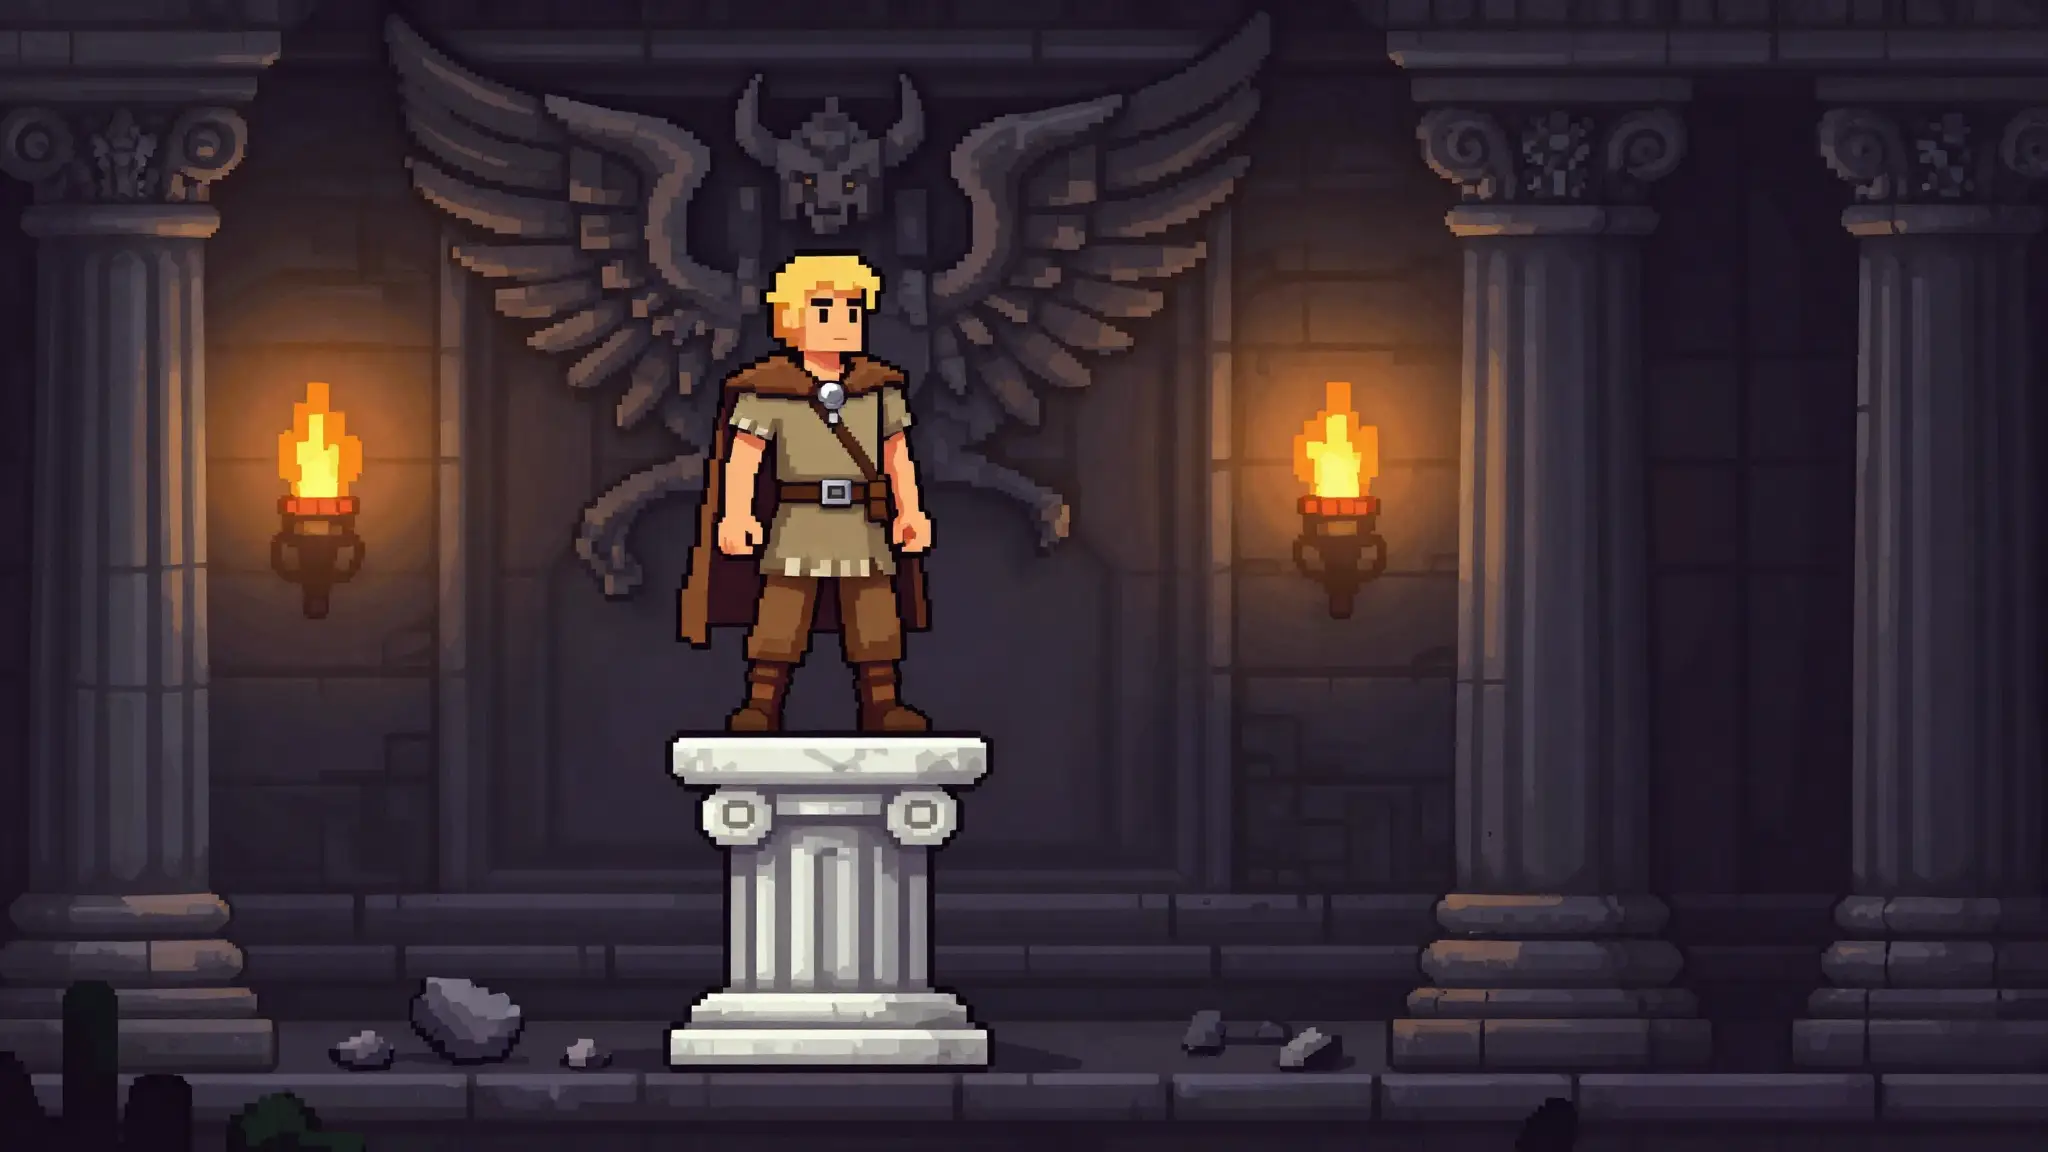
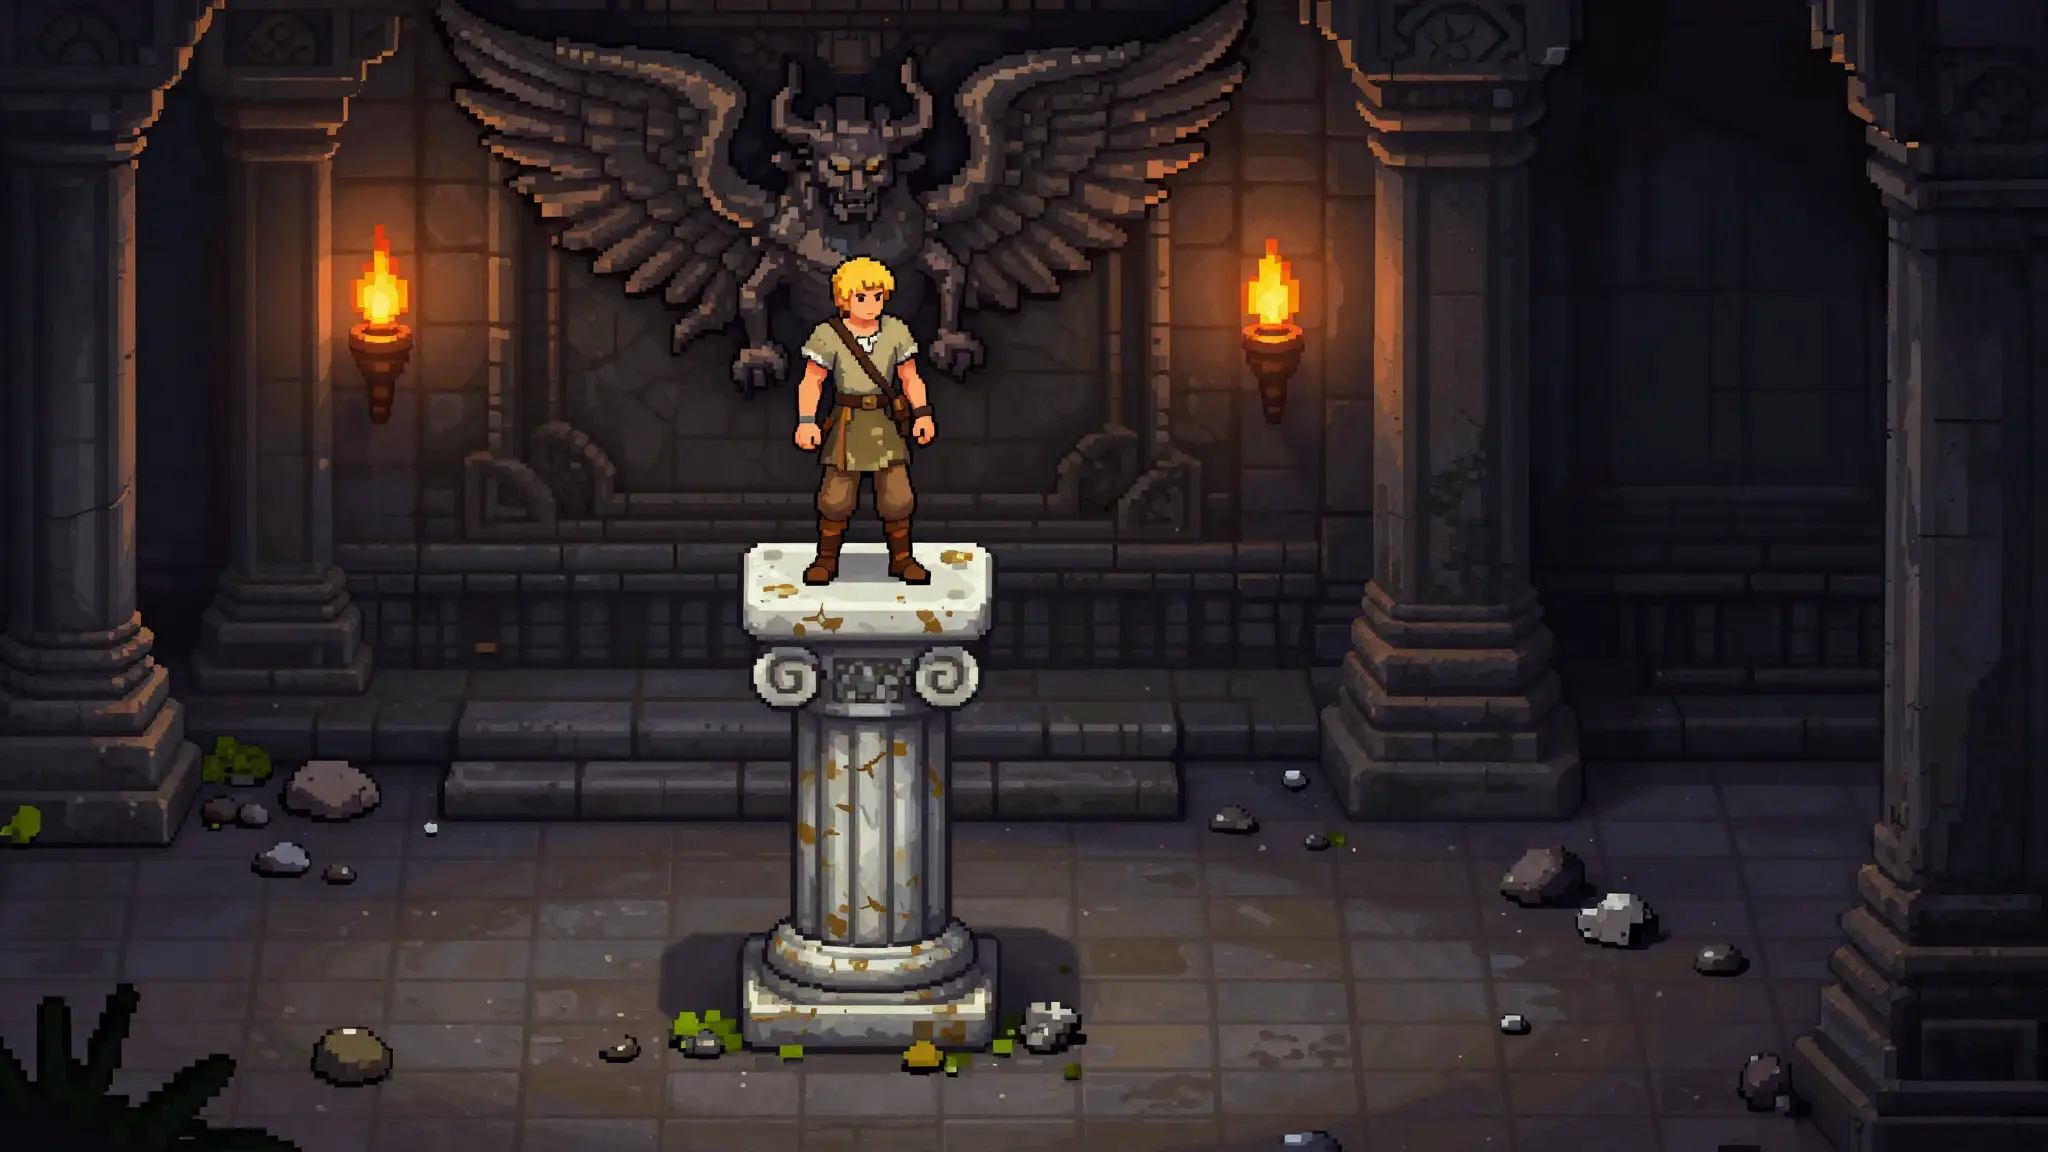
Refine scene: no cape, aged column, plain floor, more rubble, detail
- Regenerate scene per feedback: hero without cape, weathered (non-white)
  marble column, flat floor (no stepped ledge), more scattered pebbles,
  higher detail on objects
- Darken bottom corners to hide stray foliage; static img for now (will
  re-animate to video on confirm)

diff --git a/css/style.css b/css/style.css
@@ -491,6 +491,8 @@ html,body{height:100%;overflow:hidden}
    linear-gradient(90deg,rgba(6,4,3,.66) 0%,rgba(6,4,3,.2) 26%,transparent 48%),
    linear-gradient(180deg,rgba(6,4,3,.55) 0%,transparent 20%,transparent 72%,rgba(6,4,3,.6) 100%)}
 .dgn__vign{position:fixed;inset:0;z-index:2;pointer-events:none;background:
+   radial-gradient(44% 46% at 1% 100%, rgba(4,3,2,.9), transparent 60%),
+   radial-gradient(44% 46% at 99% 100%, rgba(4,3,2,.9), transparent 60%),
    radial-gradient(95% 85% at 50% 44%, transparent 60%, rgba(0,0,0,.5) 100%)}
 .dgn__firelight{position:fixed}
 .bg__dust{position:fixed;inset:0;z-index:3}

diff --git a/cmp-shot.js b/cmp-shot.js
@@ -1,0 +1,5 @@
+const puppeteer=require('puppeteer-core');const path=require('path');
+(async()=>{const b=await puppeteer.launch({executablePath:'/root/.cache/puppeteer/chrome/linux-131.0.6778.204/chrome-linux64/chrome',headless:'new',args:['--no-sandbox','--disable-setuid-sandbox']});
+const p=await b.newPage();await p.setViewport({width:1900,height:560,deviceScaleFactor:1});
+await p.goto('file://'+path.resolve(__dirname,'art/cmp.html'),{waitUntil:'networkidle2'});
+await new Promise(r=>setTimeout(r,400));await p.screenshot({path:'cmp.png'});await b.close();console.log('ok');})();

diff --git a/index.html b/index.html
@@ -14,9 +14,7 @@
 
   <!-- ===================== FULL-PAGE DUNGEON BACKGROUND ===================== -->
   <div class="dgn" aria-hidden="true">
-    <video class="dgn__bg" id="stageBg" autoplay muted loop playsinline poster="assets/scene.webp">
-      <source src="assets/scene.mp4" type="video/mp4" />
-    </video>
+    <img class="dgn__bg" id="stageBg" src="assets/scene.webp" alt="The dungeon of New Geltion" />
     <div class="dgn__firelight"></div>
     <div class="bg__dust" id="dust"></div>
     <div class="dgn__scrim"></div>

diff --git a/art/cmp.html b/art/cmp.html
@@ -1,0 +1,8 @@
+<!DOCTYPE html><html><head><meta charset="utf-8"><style>
+body{margin:0;background:#222;display:flex;gap:6px;padding:6px}
+figure{margin:0;position:relative;flex:1}img{width:100%;display:block}
+figcaption{position:absolute;top:5px;left:5px;color:#fff;font:bold 18px monospace;background:#000a;padding:1px 7px}
+</style></head><body>
+<figure><img src="../assets/u1.webp"><figcaption>u1</figcaption></figure>
+<figure><img src="../assets/u2.webp"><figcaption>u2</figcaption></figure>
+</body></html>
